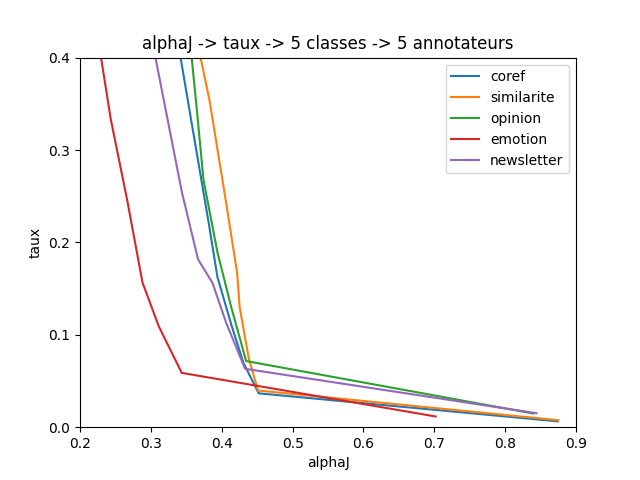
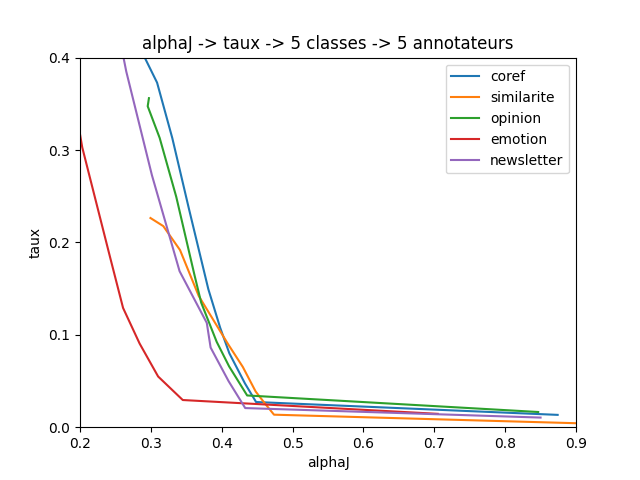
Jeffrey et prévalence

diff --git a/simulation_sur_distri_reelles_2021_05.cpp b/simulation_sur_distri_reelles_2021_05.cpp
@@ -363,6 +363,24 @@ void transpose(int T[MAXIT][MAXA],int TT[MAXA][MAXIT],int nbIt,int nbA) {
       TT[j][i]=T[i][j];
 }
 
+/**** fonction du programme principal où est défini le facteur de correction du taux*/////
+
+/* char param[] = nom du corpus */
+
+void corrige(string corpus, int nbval, float moymtauxErRef[]) {
+  float prevalence[] = {0.63, 0.055, 0.26, 0.39, 0.54}; //valeurs entrées à la main actuellement en attendant calcul sur simulations
+  float confusion_classes[] = {0.67, 0.64, 0.50, 0.62, 0.59};
+  string Lnomcorpus[] = {"coref", "similarite", "opinion", "emotion", "newsletter"};
+  int ind = 0;
+  while ((ind < 5) && (corpus != Lnomcorpus[ind]))
+    ind++;
+  float correction = exp(prevalence[ind]);
+  //cout << "correct=" << correct << endl;
+  for (int i = 0; i < nbval; i++) {
+    moymtauxErRef[i] = moymtauxErRef[i] * correction;
+  }
+}
+
 void unplusnbGgroupe(int nbG,int RefIni[],int nbIt,int nbC,int TE[],float TEIt[][MAXCL],
 		     int nbA,float tauxErparAnnot,float sigmatauxEr,int choix1,int choix2,
 		     float & mtauxErRef,float & sigmatauxErRef,float & mtauxconf,
@@ -474,8 +492,8 @@ void affiche_res_series(int nbval,float tauxErparAnnot[],float moymtauxErRef[],f
 void write_res_series(string corpus, int nbval, float moykappa[], float moyalpha[], float moymtauxErRef[], float distancemoytaux_distri_hasard[]) {
   string nomfich1 = "./res/kappa_" + corpus + ".csv";
   string nomfich2 = "./res/alpha_" + corpus + ".csv";
-  string nomfich3 = "./res/alphaman_" + corpus + ".csv";
-  string nomfich4 = "./res/kappaman_" + corpus + ".csv";
+  string nomfich3 = "./res/alphaJ_" + corpus + ".csv";
+  string nomfich4 = "./res/kappaJ_" + corpus + ".csv";
   ofstream file1(nomfich1.c_str());
   ofstream file2(nomfich2.c_str());
   ofstream file3(nomfich3.c_str());
@@ -483,13 +501,13 @@ void write_res_series(string corpus, int nbval, float moykappa[], float moyalpha
   if (file1 && file2 && file3 && file4) {
     file1 << "kappa,taux" << endl;
     file2 << "alpha,taux" << endl;
-    file3 << "alphaman,taux" << endl;
-    file4 << "kappaman,taux" << endl;
+    file3 << "alphaJ,taux" << endl;
+    file4 << "kappaJ,taux" << endl;
     for (int nb = 0; nb < nbval; nb++) {
       file1 << moykappa[nb] << "," << moymtauxErRef[nb]  << endl;
       file2 << moyalpha[nb] << "," << moymtauxErRef[nb] << endl;
-      file3 << (moyalpha[nb] * (cos(distancemoytaux_distri_hasard[nb]))) << "," << (moymtauxErRef[nb] * exp(distancemoytaux_distri_hasard[nb])) << endl;
-      file4 << (moykappa[nb] * (cos(distancemoytaux_distri_hasard[nb]))) << "," << (moymtauxErRef[nb] * exp(distancemoytaux_distri_hasard[nb])) << endl;
+      file3 << (moyalpha[nb] * (cos(distancemoytaux_distri_hasard[nb]))) << "," << (moymtauxErRef[nb]) << endl;
+      file4 << (moykappa[nb] * (cos(distancemoytaux_distri_hasard[nb]))) << "," << (moymtauxErRef[nb]) << endl;
     }
   }
   else
@@ -510,6 +528,7 @@ void serie_expes(string corpus, int nbval,int nb,int nbG,int RefIni[],int nbIt,i
 		    moymtauxconf[i],moyalpha[i],moyalphaconf[i],moykappa[i],moycos_uniforme[i],
                     moydistri_hasard[i],moydistance_distri_hasard[i],distancemoytaux_distri_hasard[i]);
   }
+  corrige(corpus, nbval, moymtauxErRef);
   normalise(distancemoytaux_distri_hasard, nbval);
   affiche_res_series(nbval,tauxErparAnnot,moymtauxErRef,moysigmatauxErRef,moymtauxconf,moyalpha,
 		     moyalphaconf,moykappa,

diff --git a/simulation_sur_distri_reelles_2021_03.hpp b/simulation_sur_distri_reelles_2021_03.hpp
@@ -21,6 +21,7 @@ void choixannotations(int nbErparA[], int nbA, int nbIt, int nbC, int Ref[], int
 void annotations1groupe(int RefIni[], int nbIt, int nbC, int TE[], float TEIt[][MAXCL], int nbA, float moyA, float sigmaA, int Tabannot[][MAXA], int Ref[], int choix1, int choix2);
 void table_confusion_classes(int T[][MAXA], int nbA, int nbIt, int nbC, int TConf[MAXCL][MAXCL]);
 void transpose(int T[MAXIT][MAXA],int TT[MAXA][MAXIT],int nbIt,int nbA);
+void corrige(string corpus, int nbval, float moymtauxErRef[]);
 void unplusnbGgroupe(int nbG,int RefIni[],int nbIt,int nbC,int TE[],float TEIt[][MAXCL],int nbA,float tauxErparAnnot,float sigmatauxEr,int choix1,int choix2,float & mtauxErRef,float & sigmatauxErRef,float & mtauxconf,float & alphaR,float & alphaconf,float & kappa,float & cos_uniforme,float & distri_hasard,float & distance_distri_hasard,float & distancetaux_distri_hasard);
 void nbfois_unplusnbGgroupe(int nb,int nbG,int RefIni[],int nbIt,int nbC,int TE[],float TEIt[][MAXCL],int nbA,float tauxErparAnnot,float sigmatauxEr,int choix1,int choix2,float & moymtauxErRef,float & moysigmatauxErRef,float & moymtauxconf,float & moyalpha,float & moyalphaconf,float & moykappa,float & moycos_uniforme,float & moydistri_hasard,float & moydistance_distri_hasard,float & distancemoytaux_distri_hasard);
 void affichage_ligne_R(int nbval, string titre, float Tab[]);

diff --git a/outils_distances.cpp b/outils_distances.cpp
@@ -331,6 +331,26 @@ void vect_desaccords_annotation_aleatoire(int nbA,int nbIt,int nbC,int Vrand[]) 
     else cout << "desaccords aleatoires : calcul ou simulation à faire\n";
 }
 
+/*********************************************************
+indice de distribution des classes (prévalence) */
+/*
+float indicedistriclasse(int T[MAXIT][MAXA], int nbA, int nbIt, int nbC) {
+  float Tobs[nbC], Texp[nbC];
+  float Vexp = 1.0 / nbC;
+  for (int c = 0; c < nbC; c++) {
+    Texp[c] = Vexp;
+    Tobs[c] = 0;
+  }
+  for (int it = 0; it < nbIt; it++)
+    for (int a = 0; a < nbA; a++) {
+      int c = T[it][a];
+      Tobs[c]++;
+    }
+  for (int c = 0; c < nbC; c++)
+    Tobs[c] = 1.0 * Tobs[c] / (nbA * nbIt);
+  return khi_deux(Tobs, Texp, nbC);
+}*/
+
 //-----DISTANCES ENTRE DISTRIBUTIONS-----
 
 // min(x, y)
@@ -583,7 +603,7 @@ float distance_taux_distri_hasard(int T[MAXIT][MAXA], int nbA, int nbIt, int nbC
         else
           (Treel[ind])++;
     }
-    return man_vect_entier(Tcomb, Treel, 7);
+    return Jeffrey_vect_entier(Tcomb, Treel, 7);
   }
   else {
     cout << "pas de calcul prévu pour distance_taux_distri_hasard\n ";

diff --git a/outils_distances.hpp b/outils_distances.hpp
@@ -24,6 +24,7 @@ float cosinus_uniforme(float Tdist2[MAXCL][MAXCL], int nbC);
 int cmpfunct(const void* a, const void* b);
 void nb_desaccords_par_item(int TA[MAXIT][MAXA], int nbA, int nbIt, int Vreel[]);
 void vect_desaccords_annotation_aleatoire(int nbA, int nbIt, int nbC, int Vrand[]);
+float indicedistriclasse(int T[MAXIT][MAXA], int nbA, int nbIt, int nbC);
 int min(int x, int y);
 float min_vect_reel(float v[], int nbIt);
 float max_vect_reel(float v[], int nbIt);
